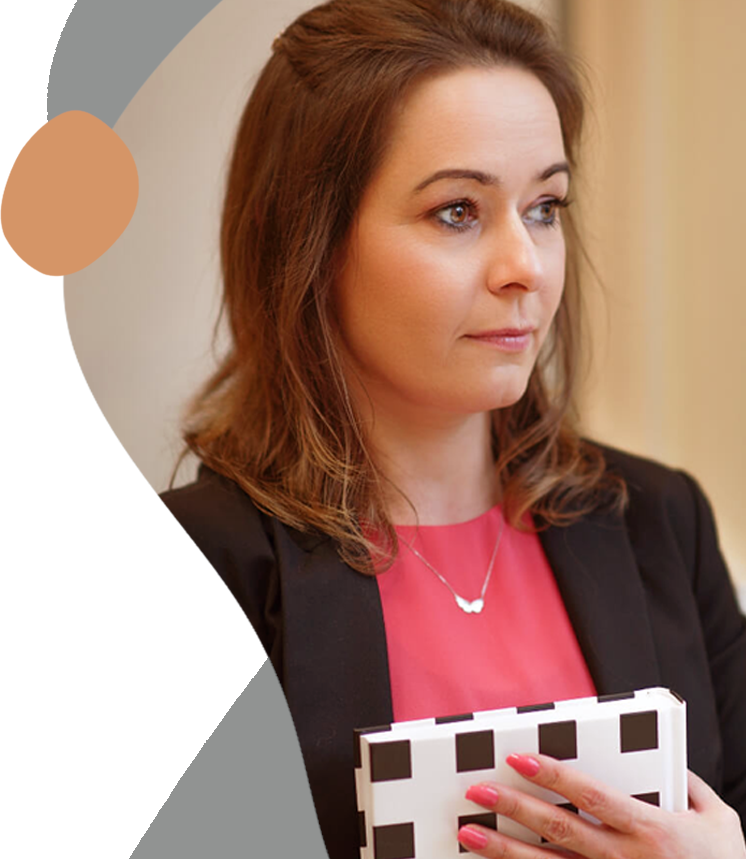
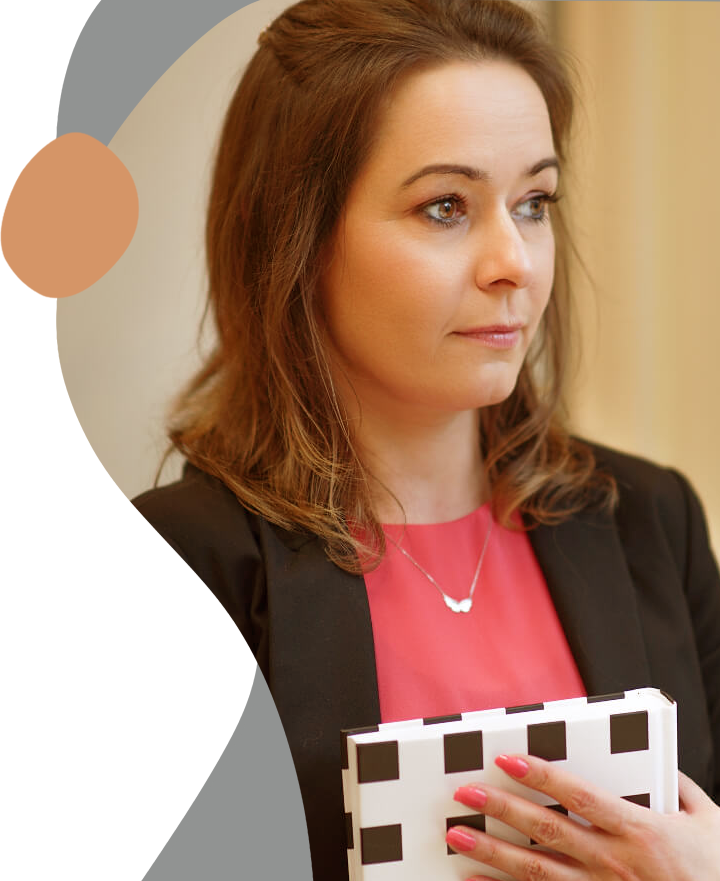
hero and contact 1.2

diff --git a/src/App.css b/src/App.css
@@ -95,7 +95,7 @@ a {
 }
 
 .hero__info{
-  width: 65%;
+  width: 77%;
   position: relative;
   display: flex;
   justify-content: center;
@@ -105,41 +105,41 @@ a {
 }
 
 .intro{
+  position: relative;
   font-family: var(--font);
   line-height: 0.9;
 }
 .intro__name{
   font-size: 90px;
+  position: relative;
+  right: 80px;
+  top:8px
 }
 .intro__name::after{
   content: '';
   display: block;
-  width: 80px;
+  width: 155px;
   height: 2px;
-  transform: translate(345px, -15px);
+  transform: translate(430px, -13px);
   background: var(--gray);
 }
 .intro__surname{
-  font-size: 98px;
+  font-size: 105px;
 }
 .intro__name,.intro__surname{
   color: var(--gray);
   font-weight: 300;
-  font-style: italic;
-}
-.intro__line{
-  width: 50px;
-  height: 4px;
 }
 
 .info__p{
   display: flex;
+  margin: 30px 0 0 0;
   font-size: 20px;
 }
 .p-left{
   max-width: 316px;
   position: relative;
-  margin: 20px 50px 0 0;
+  margin: 20px 40px 0 0;
   text-align: right;
   font-weight: 700;
 }
@@ -193,7 +193,7 @@ a {
 .contact__info-title::after{
   content: '';
   height: 1px;
-  width: 170px;
+  width: 150px;
   background: var(--dark-gray);
   position: absolute;
   bottom: 0;

diff --git a/src/components/Natalia/Hero.js b/src/components/Natalia/Hero.js
@@ -9,7 +9,6 @@ function Hero() {
             <div className='hero__info'>
                 <div className='intro'>
                     <h2 className='intro__name'>NATALIA</h2>
-                    <div className='intro__line'></div>
                     <h2 className='intro__surname'>ZARAŃSKA</h2>
                 </div>
                 <div className="info__p">

diff --git a/src/components/Contact/ContactContent.js b/src/components/Contact/ContactContent.js
@@ -1,5 +1,5 @@
 import React from 'react'
-import ContactShape from '../../assets/temp/contact-shape.png'
+import ContactShape from '../../assets/temp/contact-shape2.png'
 import SocialMediaBlog from '../../assets/temp/social-media-blog.png'
 import SocialMediaFb from '../../assets/temp/social-media-fb.png'
 function ContactContent() {
